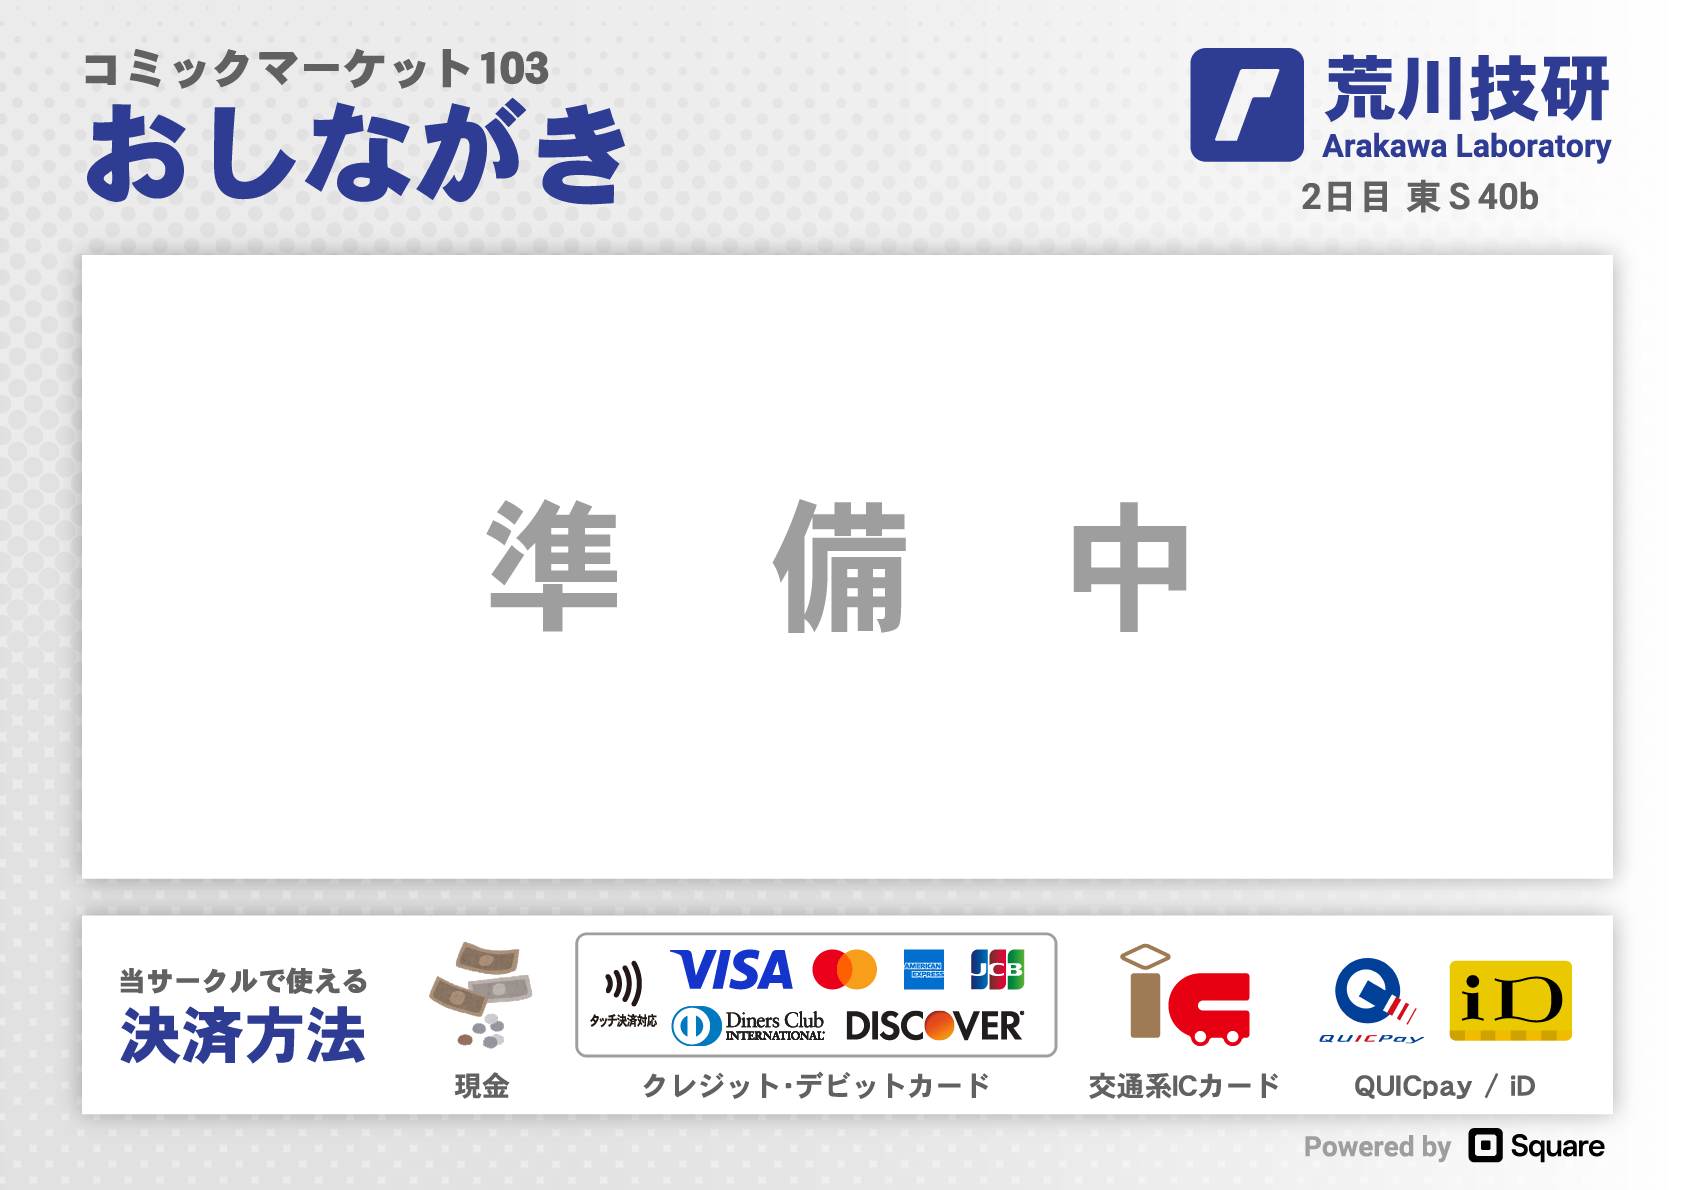
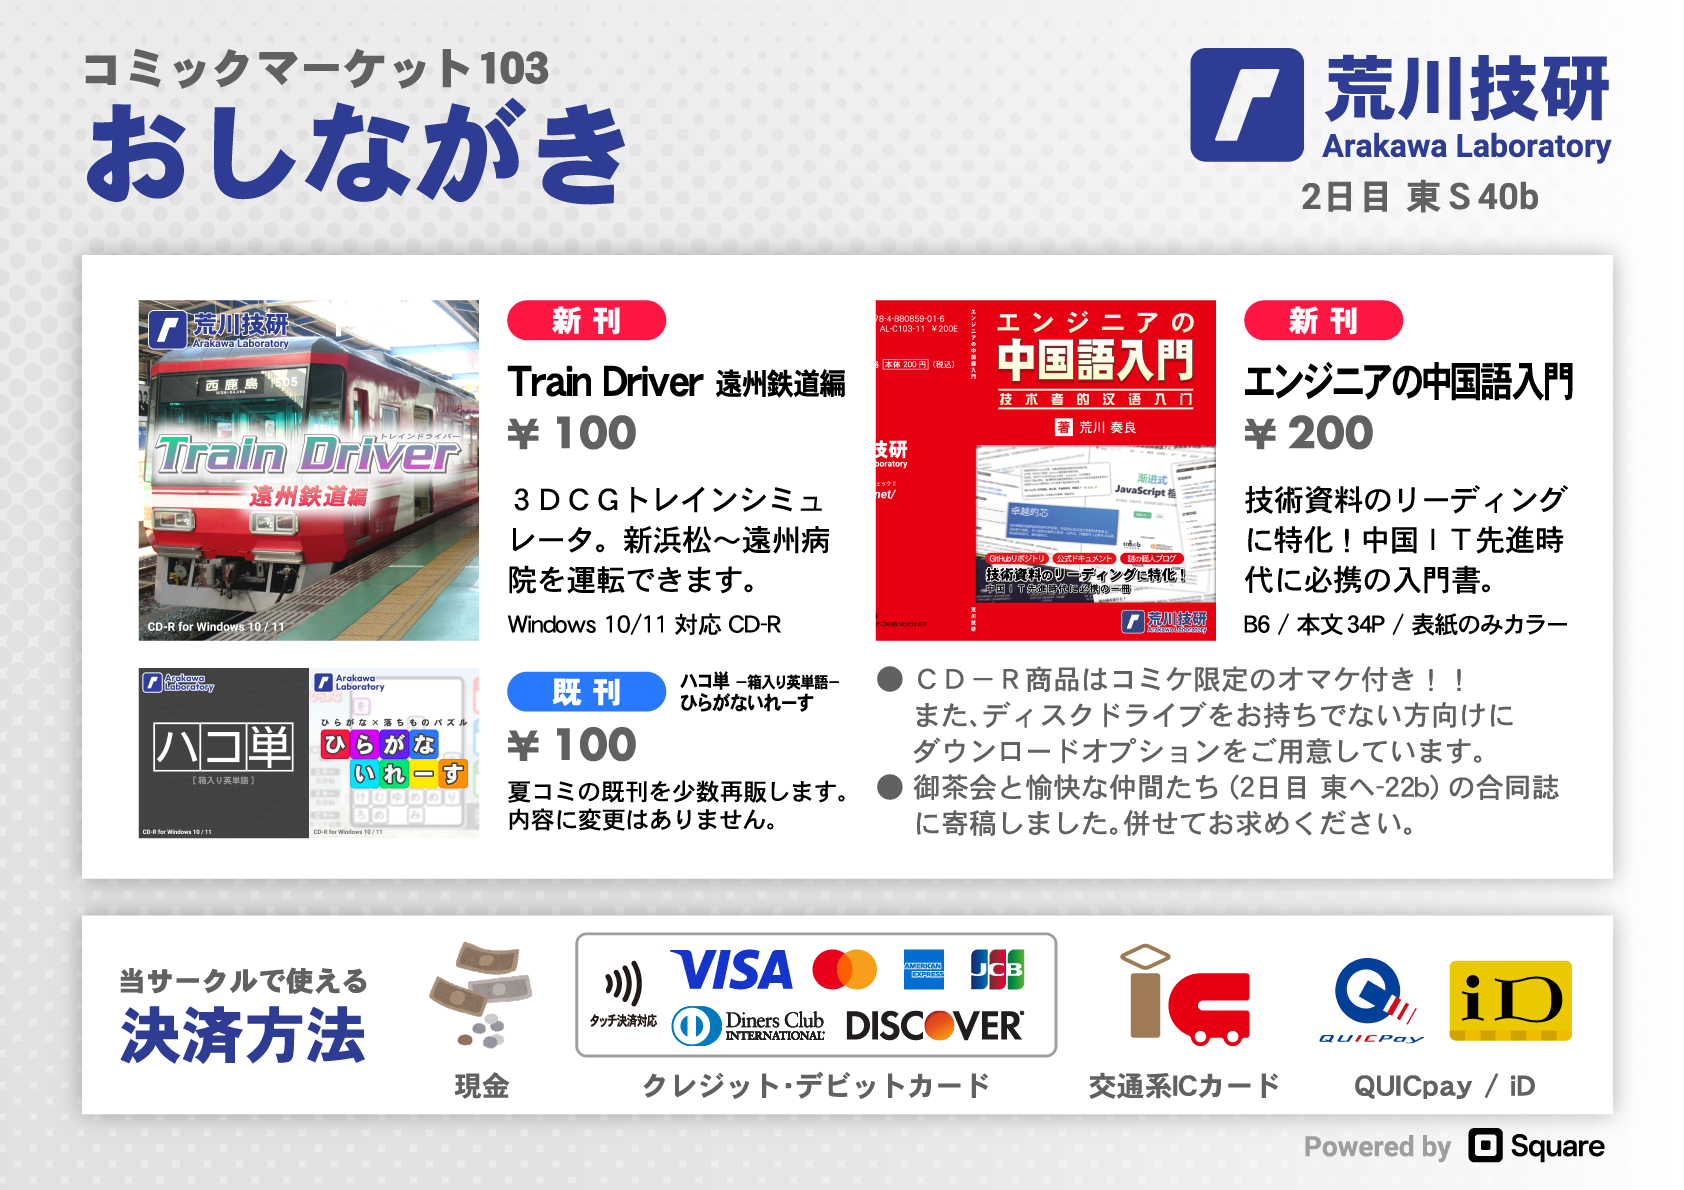
Update doujin

Changed region(s): [[0.0618, 0.2487, 0.9572, 0.7151]]

diff --git a/html/doujin/index.html b/html/doujin/index.html
@@ -79,7 +79,38 @@
 					>)
 				</p>
 				<p><img src="img/c103-oshinagaki.png" class="oshinagaki" /></p>
+				<div class="package">
+					<img src="img/train_driver_entetsu.png" />
+				</div>
+				<p>
+					<b>新刊「Train Driver 遠州鉄道編」</b>　100円<br />
+					Windows 10 / 11対応CD-R<br />
+					新作の3DCGトレインシミュレータ。遠州鉄道2000系電車で新浜松～遠州病院を運転できます。
+					収録区間は今後のアップデートにて延伸予定。
+				</p>
+				<div class="package">
+					<img src="img/engineer_cn.png" />
+				</div>
+				<p>
+					<b>新刊「エンジニアの中国語入門」</b>　200円<br />
+					B6 / 本文34ページ / 表紙のみカラー<br />
+					持ち運びやすいポケットサイズで中国IT先進時代に必携!
+					GitHubリポジトリのREADMEやAPIドキュメントなど、技術資料のリーディングに特化した中国語入門書です。
+				</p>
+				<div class="package">
+					<img src="img/hakotan.png" /><img src="img/hiragana_erase.png" />
+				</div>
+				<p>
+					<b>既刊「ハコ単 -箱入り英単語-」「ひらがないれーす」</b
+					>　各100円<br />
+					Windows 10 / 11対応CD-R<br />
+					夏コミ (C102) の既刊を少数再販します。内容に変更はありません。
+				</p>
 				<ul>
+					<li>
+						CD-R商品はコミケ限定のオマケ付き!!
+						また、ディスクドライブをお持ちでない方向けにダウンロードオプションをご用意しています。
+					</li>
 					<li>
 						お支払いには現金の他、各種クレジット・デビットカード
 						(タッチ決済対応)
@@ -242,7 +273,7 @@
 				<a href="https://arkw.net/">
 					<img src="img/arakawa.svg" width="160" /> </a
 				><br />
-				最終更新日 : 2023年12月13日<br />
+				最終更新日 : 2023年12月22日<br />
 				(c) 2021-2023 Sora Arakawa all rights reserved.
 			</div>
 		</div>
